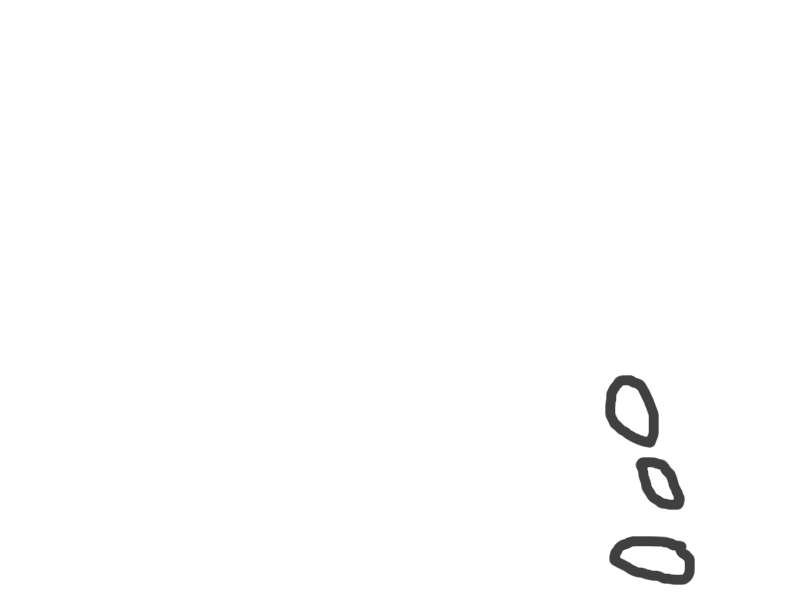
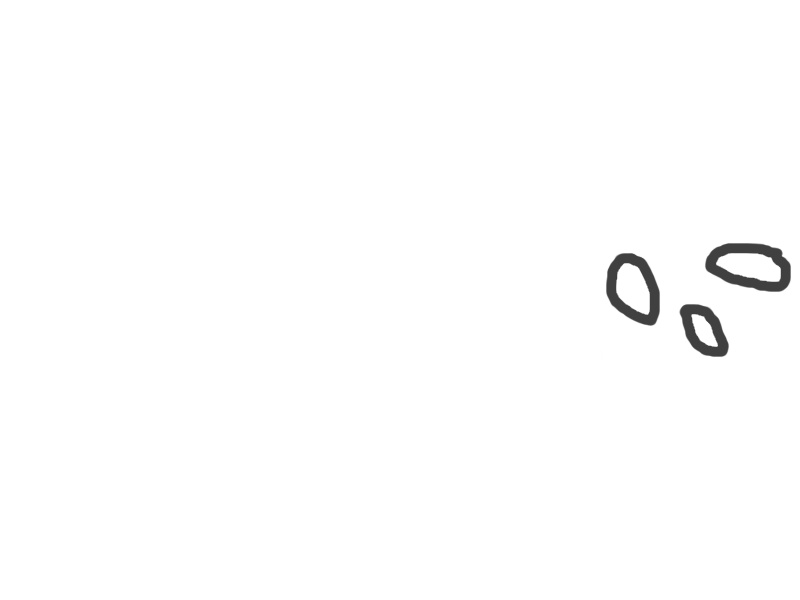
Add thinking anitmation, and adjust response layout

Changed region(s): [[0.75, 0.63, 0.875, 0.99], [0.75, 0.42, 0.9062, 0.6], [0.875, 0.39, 1.0, 0.51]]

diff --git a/src/ChatContainer/AnswersContainer/AnswersContainer.tsx b/src/ChatContainer/AnswersContainer/AnswersContainer.tsx
@@ -3,6 +3,7 @@ import React from 'react';
 import styled from 'styled-components';
 import { AnswerBubble } from './AnswerBubble';
 import { ThinkBubble } from './ThinkBubble';
+import DanielImg from './daniel1.png';
 
 interface Props {
     isThinking: boolean; // Determines whether the oracle is currently thinking. No new questions can be asked while thinking.
@@ -22,7 +23,12 @@ export const AnswersContainer: (props: Props) => JSX.Element = ({ isAsking, isTh
 
     return (
         <>
-            <ResponseContainer>{isThinking ? <ThinkBubble /> : <AnswerBubble answer={currentAnswer} />}</ResponseContainer>
+            <ResponseContainer>
+                {isThinking ? <ThinkBubble /> : <AnswerBubble answer={currentAnswer} />}
+                <ImageContainer>
+                    <StyledImage />
+                </ImageContainer>
+            </ResponseContainer>
             <ChatContainer>
                 <ChatMessages messages={chatMessages} />
             </ChatContainer>
@@ -38,4 +44,19 @@ const ChatContainer = styled.div`
 const ResponseContainer = styled.div`
     grid-column-start: 2;
     grid-row-start: 1;
+    display: flex;
+    flex-direction: row;
+`;
+
+const StyledImage = styled.div`
+    background-image: url('${DanielImg}');
+    background-repeat: no-repeat;
+    background-size: 100% 100%;
+    width: 100%;
+    height: 100%;
+    border-radius: 50%;
+`;
+
+const ImageContainer = styled.div`
+    flex: 0 1 20%;
 `;

diff --git a/src/ChatContainer/AnswersContainer/AnswerBubble/AnswerBubble.tsx b/src/ChatContainer/AnswersContainer/AnswerBubble/AnswerBubble.tsx
@@ -1,7 +1,6 @@
 import React from 'react';
 import styled from 'styled-components';
 import BubbleImg from './answer-bubble.png';
-import DanielImg from './daniel1.png';
 
 interface Props {
     answer?: string;
@@ -14,9 +13,6 @@ export const AnswerBubble: (props: Props) => JSX.Element | null = ({ answer }) =
 
     return (
         <BubbleContainer>
-            <ImageContainer>
-                <StyledImage />
-            </ImageContainer>
             <AnswerTextContainer>{answer}</AnswerTextContainer>
         </BubbleContainer>
     );
@@ -27,20 +23,7 @@ const BubbleContainer = styled.div`
     background-repeat: no-repeat;
     background-size: 100% 100%;
     position: relative;
-`;
-
-const StyledImage = styled.div`
-    background-image: url('${DanielImg}');
-    background-repeat: no-repeat;
-    background-size: contain;
-    width: 300px;
-    height: 300px;
-    border-radius: 150px;
-`;
-
-const ImageContainer = styled.div`
-    display: flex;
-    justify-content: flex-end;
+    flex: 0 1 80%;
 `;
 
 const AnswerTextContainer = styled.p`
@@ -50,7 +33,6 @@ const AnswerTextContainer = styled.p`
 `;
 
 const AnswerPlaceholder = styled.div`
+    flex: 0 1 80%;
     background-size: 100% 100%;
-    width: 100%;
-    min-height: 300px;
 `;

diff --git a/src/ChatContainer/AnswersContainer/ThinkBubble/ThinkBubble.tsx b/src/ChatContainer/AnswersContainer/ThinkBubble/ThinkBubble.tsx
@@ -1,6 +1,9 @@
 import React from 'react';
-import styled from 'styled-components';
-import ThinkBubbleImg from './think-bubble-full.png';
+import styled, { keyframes } from 'styled-components';
+import thinkBubble1 from './think-bubble-1dot.png';
+import thinkBubble2 from './think-bubble-2dots.png';
+import thinkBubble3 from './think-bubble-3dots.png';
+import thinkBubble4 from './think-bubble-full.png';
 
 export const ThinkBubble = () => {
     return (
@@ -10,11 +13,21 @@ export const ThinkBubble = () => {
     );
 };
 
+const thinkBubbleAnimation = keyframes`
+  0% {background-image: url(${thinkBubble1});}
+  25% {background-image: url(${thinkBubble2});}
+  50% {background-image: url(${thinkBubble3});}
+  75% {background-image: url(${thinkBubble4});}
+`;
+
 const BubbleContainer = styled.div`
-    background-image: url('${ThinkBubbleImg}');
+    flex: 0 1 80%;
     background-repeat: no-repeat;
     background-size: 100% 100%;
+    animation: ${thinkBubbleAnimation} 1.2s linear infinite;
     position: relative;
+    width: 100%;
+    height: 100%;
 `;
 
 const TextContainer = styled.p`
